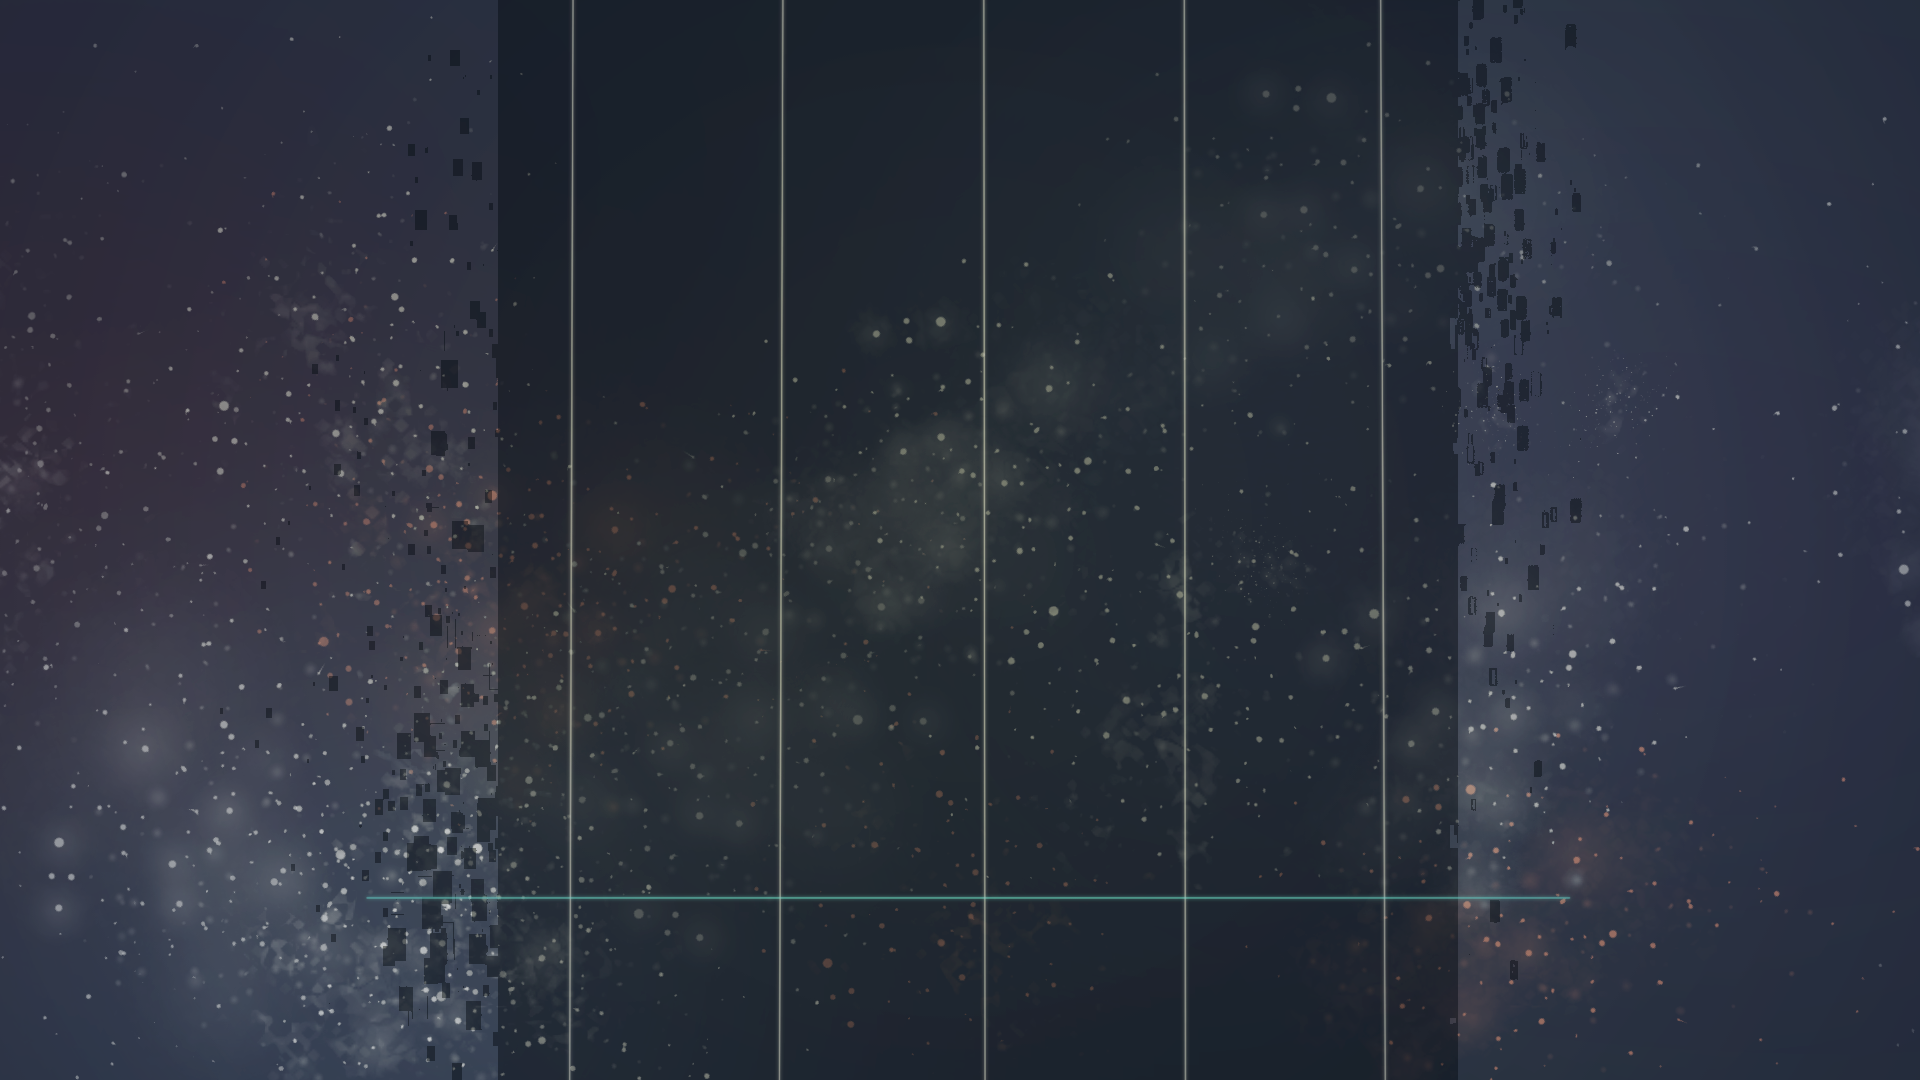
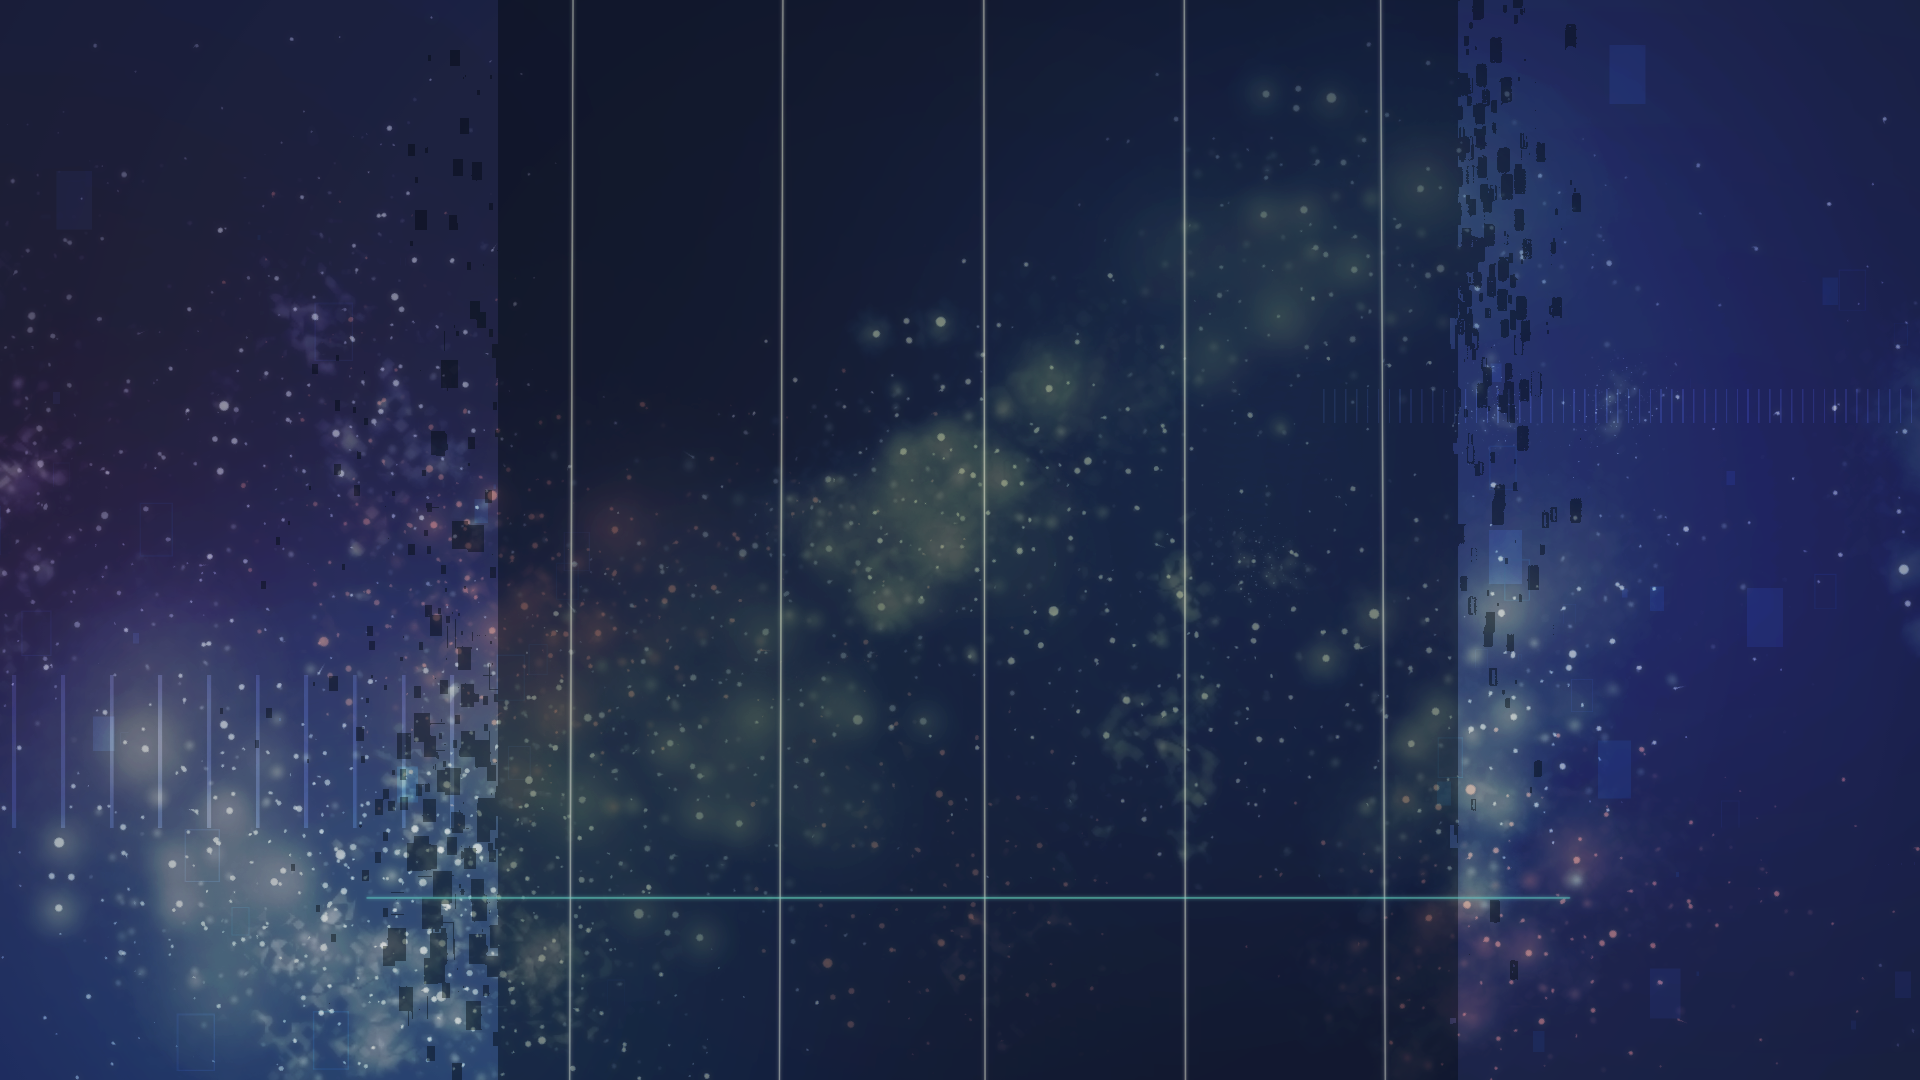
Add Title class

diff --git a/Rhythm/Rhythm/Start.cpp b/Rhythm/Rhythm/Start.cpp
@@ -1,10 +1,9 @@
 #include "DxLib.h"
 
 #include "Start.h"
-#include "IO.h"
 #include "Result.h"
 #include "Play.h"
-#include "TimeSync.h"
+#include "Title.h"
 
 Start::Start()
 {
@@ -14,6 +13,9 @@ Start::Start()
 
 void Start::start()
 {
+	Title title;
+	title.start();
+
 	Scene scene(NomalNote, Cursor);
 	scene.GameStart();
 }
